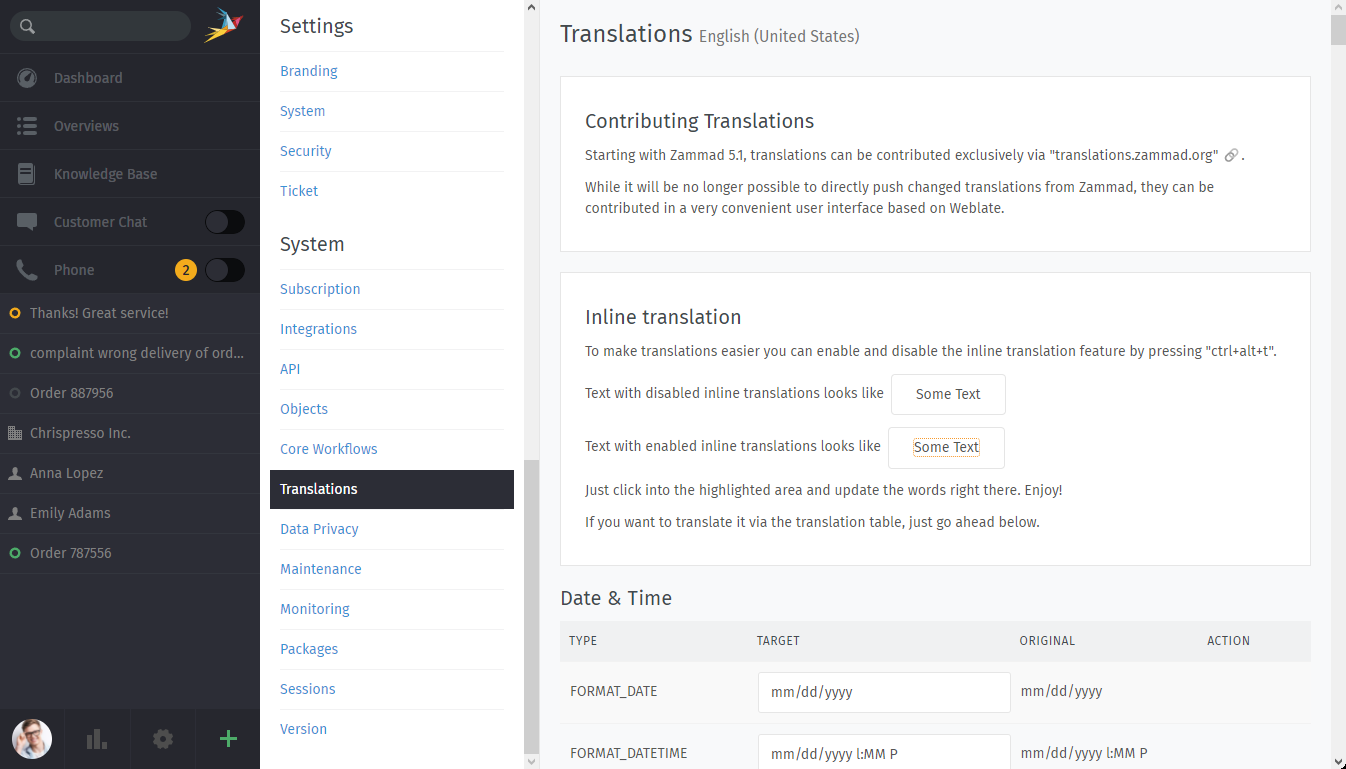
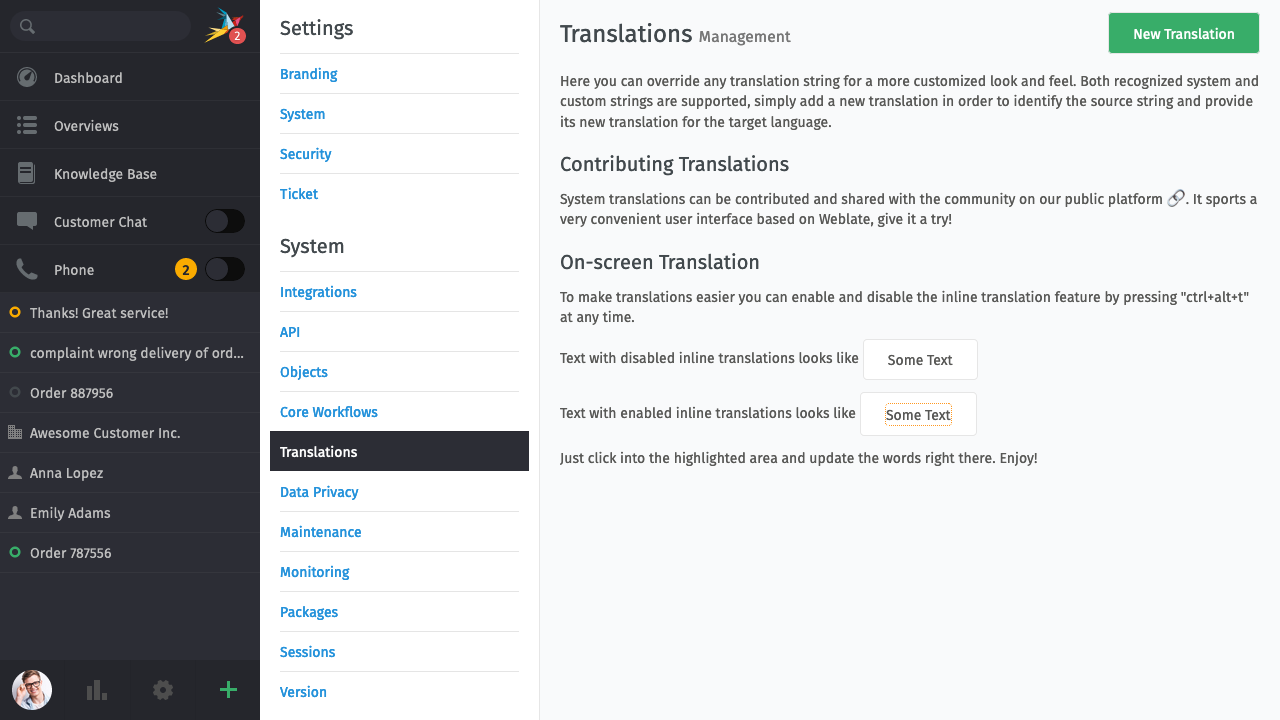
Fixes #503 - Rewrite translations chapter to reflect the new customization mode.

diff --git a/system/translations.rst b/system/translations.rst
@@ -1,16 +1,16 @@
 Translations
 ************
 
-Translations of Zammad are processed centrally on our
+Translations of Zammad are processed centrally in our
 `Weblate instance <https://translations.zammad.org/>`_.
-This allows non development people to review and update translation strings of
-the language they actually speak.
+This allows non-developers to review and update translation texts of the
+language they actually speak.
 
-Your language is in an incomplete translation state or has typos?
-Please consider helping us sorting this out! All you need is either a GitHub
-account or register directly on our instance.
+Your language is in an incomplete translation state or has typos? Please
+consider helping us in sorting this out! All you need is either a GitHub account
+or to register directly in our instance.
 
-Did you know? This is also where documentation translations are handled. 🤓
+Did you know? This is also where the documentation translations are handled. 🤓
 
 Have a look in our
 :docs:`contribution section </contributing/start.html#translation>` in the
@@ -18,63 +18,99 @@ system documentation to get started!
 
 --------------------------------------------------------------------------------
 
-Apart from these centralized translations, there's still local translations
-you can manage. This is relevant if you added custom objects that require
-translations or even states.
-
-.. warning::
-
-   You can no longer synchronize these translations upstream like prior
-   Zammad 5.1.
+Apart from these system translations, there's still local translations you can
+manage. This is relevant if you added custom objects that require translations
+or even custom states and priorities.
 
 .. figure:: /images/system/translations/translation-management.png
-   :alt: Translation management page within the admin menu
+   :alt: Translation management screen within the admin menu
+   :align: center
 
-How do I get the most recent translations?
-------------------------------------------
+Updating Translations
+---------------------
 
-Because of how Zammad ships translations, the only way to update the
-central translations is to update your Zammad installation. The benefit of
-this is that you no longer need internet access during a Zammad upgrade as
-the package has everything it requires already.
+Because of how Zammad ships translations, the only way to update the system
+translations is to update your Zammad installation. The benefit of this is that
+you no longer need internet access during a Zammad upgrade as the package has
+everything it requires already.
 
-But... I have custom objects?!
-------------------------------
+Translation of Custom Objects
+-----------------------------
 
-No problem at all! If you can't find the strings of your objects already within
-the translation list, please ensure to
-:docs:`add the translation strings </admin/console/other-useful-commands.html#add-translation>`
-to your installation.
+No problem at all! You can customize any translation locally, even if it is not
+initially provided by the system.
 
-Now you can translate your objects as needed.
+Translation is supported for a broad number of features, including but not
+limited to custom:
 
-So how does this local translation work?
-----------------------------------------
+* Object Attributes
+* Ticket Macros
+* Ticket Overviews
+* Ticket Priorities
+* Ticket States
 
-Within the translation menu, look up the string you're searching for and update
-its target as designed. As soon as you leave the target input field, the change
-will be saved. Your changes are even update safe!
+Customizing Translations
+------------------------
 
-Such locally translated strings are slightly highlighted and come with a "Reset"
-action. Due to caching you may have to reload your browser session to see the
-changes.
+Within the translation screen, simply click on the **New Translation** button.
 
-The translation strings shown by Zammad are always those of the
-profile language you've chosen. If you need to translate a different language,
-change the language in your
-:user-docs:`profile settings </extras/profile-and-settings.html>` up front.
+.. figure:: /images/system/translations/new-translation-dialog.png
+   :alt: New translation dialog
+   :align: center
 
-.. figure:: /images/system/translations/changed-local-translation.png
-   :alt: Screenshot showing an adjusted translation locally
+In the dialog you can immediately enter the exact translation source (if you
+know it) and your custom translation text for it and click **Submit**.
 
-Reverting to original translations
+Alternatively, try to search for translation suggestions in the list below.
+Selecting an item from the list will pre-fill the translation source for you and
+then you can just enter your custom translation.
+
+The target language will always default to your current language selection. If
+you need to translate for a different language, simply change the selection
+before submitting.
+
+All your custom translations will show up in the overview table when added. And
+they will even persist across Zammad updates!
+
+Reverting to Original Translations
 ++++++++++++++++++++++++++++++++++
 
-If you want to reset all translation changes on your instance, use the
-red "Reset" button on the upper right of the translation management.
+If you want to revert a custom translation to original text, simply use the
+appropriate action within the row of the overview table.
 
-In case you just intend to reset a specific translation, lookup the
-translation string and use the "reset" action.
+Depending on the type of the translation source, the action has a slightly
+different name:
 
-.. figure:: /images/system/translations/resetting-local-translations.png
-   :alt: Screenshot showing reset button highlighted
+* **Reset** for customized system translations
+* **Remove** for customized local translations
+
+In both cases, the action will remove the customized translation after a
+confirmation.
+
+.. figure:: /images/system/translations/revert-custom-translation.png
+   :alt: Screenshot showing the location of the Remove action
+   :align: center
+
+Inline Translations
++++++++++++++++++++
+
+If you prefer a more hands-on approach, you can activate the inline or on-screen
+translation feature by pressing ``ctrl`` + ``alt`` + ``t`` at any time and on
+any screen.
+
+All customizable translation texts will be highlighted for you on the screen.
+Just click into the highlighted area and update the text in place.
+
+.. figure:: /images/system/translations/inline-translations.png
+   :alt: Inline translation mode activated for the Overview screen
+   :align: center
+
+When finished editing, simply press ``ctrl`` + ``alt`` + ``t`` again to
+deactivate.
+
+.. note::
+
+   Even though it's available on any screen, the inline translation feature
+   requires admin permissions. It works only for the current language selection.
+   If you need to translate a different language, first change the language in
+   your :user-docs:`profile settings </extras/profile-and-settings.html>`.
